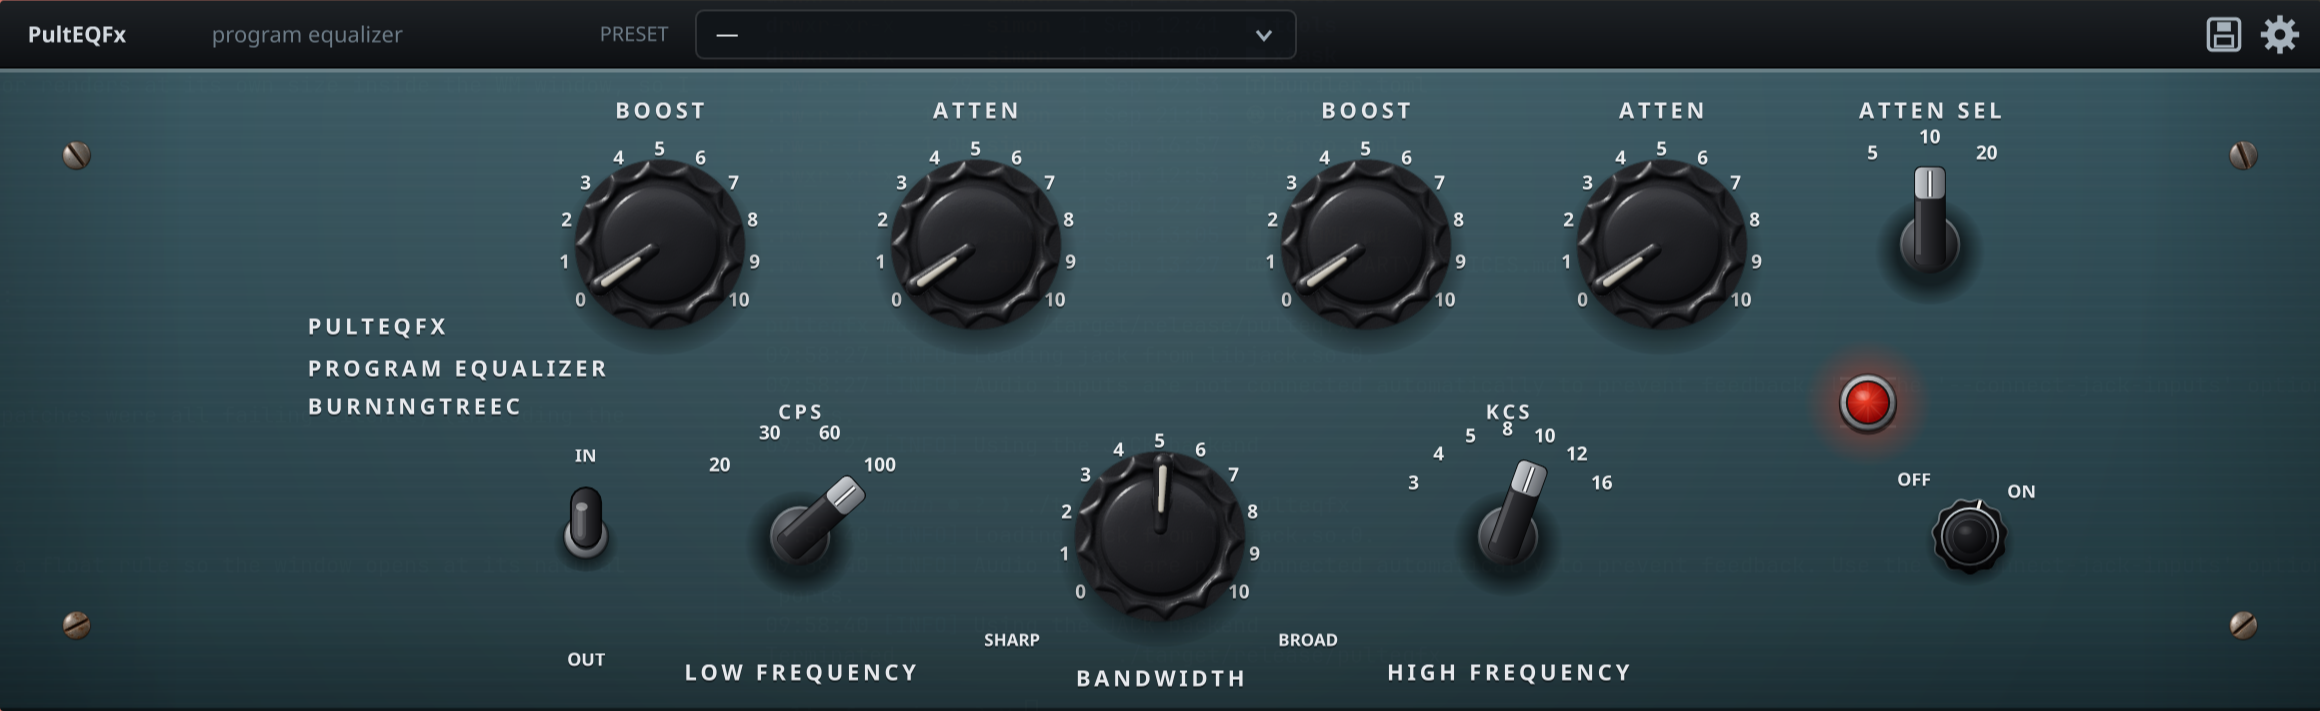
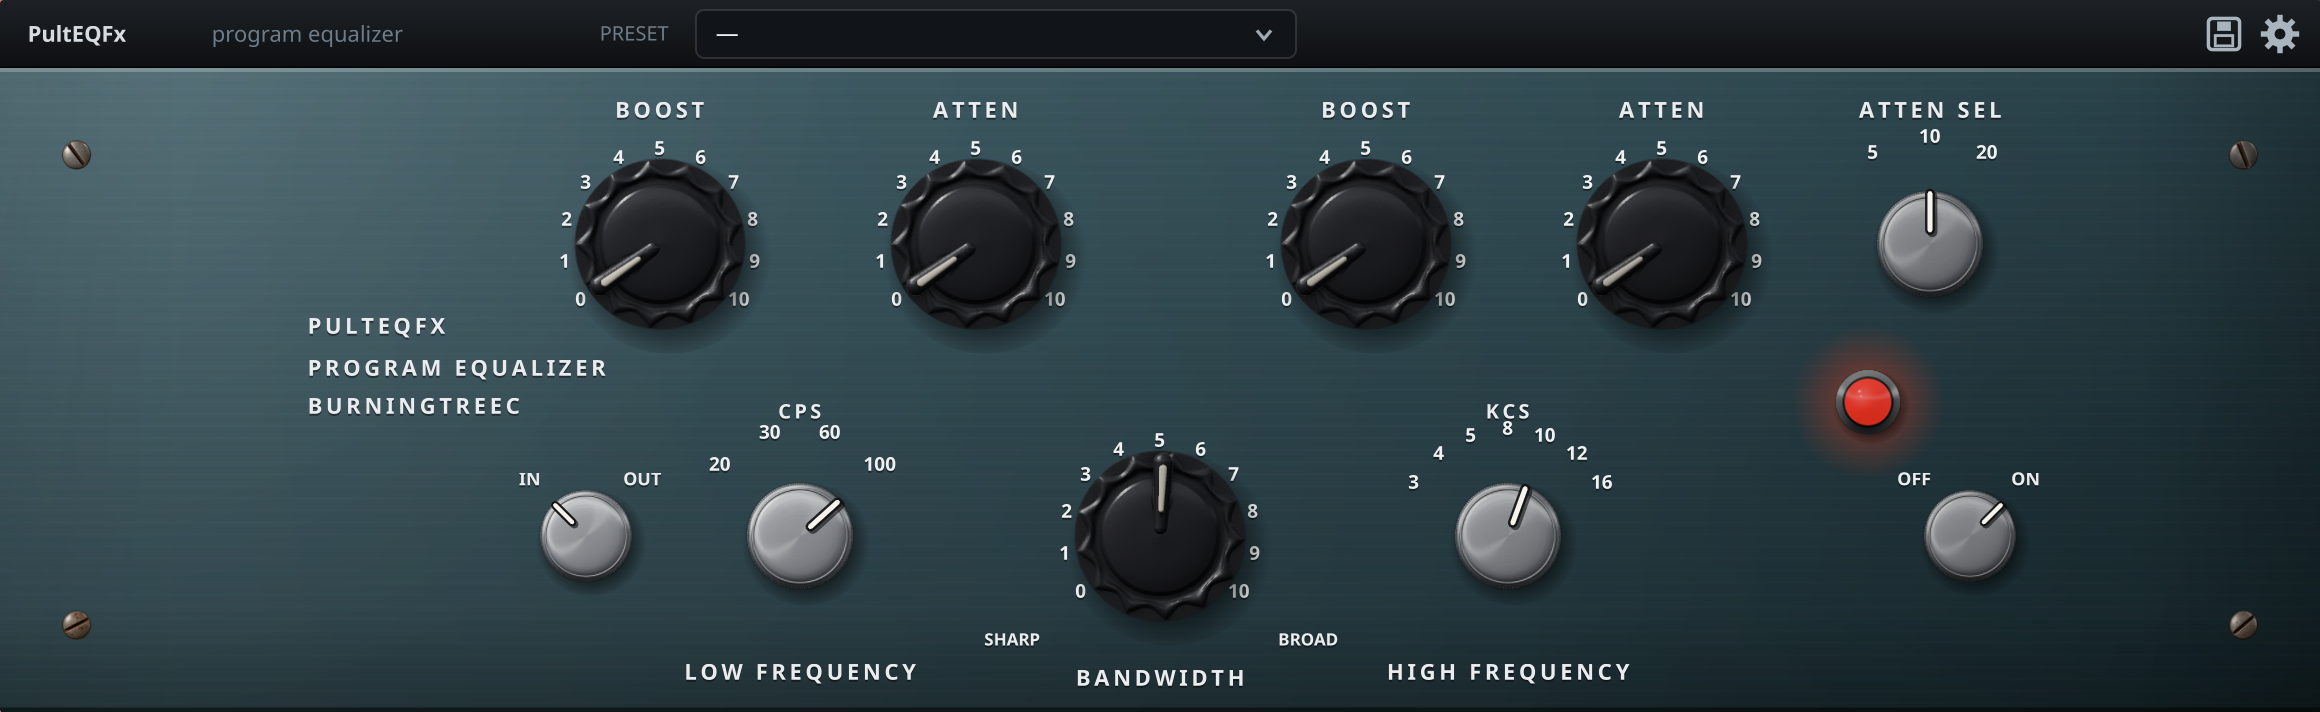
Show the redesigned panel in the README, and stop the terminal showing through it
The screenshot and the panel section both still described the panel before the
metal switch knobs, the rendered lamp and the top left lighting rig went in.

The screenshot had a second fault worth naming. shot.sh tried to defeat the
compositor's window opacity with two `hyprctl setprop ... alpha` calls, each
ending in `|| true`. This Hyprland answers "unknown request" to every setprop
property name, so both had been failing silently and the shipped doc/panel.png
has a terminal legible through the faceplate -- my own conversation, readable
across the enamel between the knobs.

The window carries Omarchy's `default-opacity` tag, which puts it at 0.985.
`hyprctl keyword` is refused here too ("keyword can't work with non-legacy
parsers"), so the rule goes in through the Lua repl the script already uses for
focus and floating. Rules are evaluated top to bottom and for opacity the last
match wins, so one registered at run time beats the tag, and it applies to the
window already mapped. Verified by reading `getprop opacity` back: 0.985 before,
1 after, and the check now aborts the shot rather than shipping a see-through
panel.

Claude-Session: https://claude.ai/code/session_01W5MXJig8Lr2Y96W4ASLa8X

diff --git a/README.md b/README.md
@@ -57,7 +57,7 @@ checking each one:
 
 ## Controls
 
-The front panel is the hardware's. The left hand toggle is the EQ IN/OUT
+The front panel is the hardware's. The left hand knob is the EQ IN/OUT
 switch, which lifts the passive network out of circuit but leaves the amplifier
 in it. The OFF/ON knob at the right takes the whole unit out of circuit, and
 the pilot lamp follows it.
@@ -86,9 +86,9 @@ left to delete to get it back.
 
 The settings button holds:
 
-* **Window size**, from 50 % to 200 %. Nearly all of the panel is drawn rather
-  than pictured, so it stays sharp at any size, and the parts that are pictured
-  are rendered large enough to hold up at the top of the range.
+* **Window size**, from 50 % to 200 %. The faceplate, lettering and scales are
+  drawn rather than pictured, so they stay sharp at any size, and the rendered
+  metal is generated large enough to hold up at the top of the range.
 * **Oversampling**, off through 8x. The equalizer is prewarped and accurate
   without it; oversampling is there for the amplifier's saturation. The plugin
   always reports 74 samples of latency and pads the shorter settings out to
@@ -101,26 +101,70 @@ reset.
 
 ## The panel
 
-The switches, the pointer knobs, the pilot lamp and the faceplate itself are
-drawn with vector paths. The five large knobs and the four mounting screws are
-images: the knobs are generated by `assetgen`, a renderer in this repository
-that builds them from parametric geometry, bakes occlusion into them by casting
-rays against themselves, and shades them under one lighting rig that the whole
-panel shares.
+The faceplate, the lettering, the dial scales and every pointer are drawn with
+vector paths, so they stay sharp at any window size. Everything that is metal
+is a render: the five large knobs, the five knurled switch knobs, the pilot
+lamp and the four mounting screws.
 
-A turning knob cannot be drawn by rotating one picture of it. Rotating the
-picture rotates the lighting baked into it, so the highlight travels round with
-the knob instead of staying where the panel light is. Each knob is instead
-rendered as a filmstrip of 48 frames across its 250 degree sweep, each frame
-lit from the same place, and the widget picks the frame that matches its value.
-The screws are photographed, each already driven to its own angle, and are
-never turned for the same reason.
+The renders come from `assetgen`, a renderer in this repository. It takes
+either parametric geometry or a glTF model, bakes occlusion into it by casting
+rays against itself, and shades it under a lighting rig the whole panel shares.
+The large knobs are built from geometry; the switch knobs come from
+`assets/knob_metal.glb` and the lamp from `assets/led_ring.glb`. glTF states
+base colour, metalness and roughness but has no way to state a finish, so the
+brushing and micro-texture of the aluminium are assetgen's.
+
+Nothing on the panel is ever drawn by rotating a picture of itself. Rotating
+the picture rotates the light baked into it, so the highlight would travel
+round with the part instead of staying where the panel lamp is. The three
+consequences are worth naming, because each one is why a part is made the way
+it is:
+
+* **The large knobs** are filmstrips — 48 frames across the 250 degree sweep,
+  each lit from the same place, and the widget picks the frame matching its
+  value.
+* **The switch knobs** are a single frame. The knurled cylinder has no
+  indicator on it and looks the same at every angle, so the widget draws the
+  pointer on top at whatever angle the switch is thrown to.
+* **The screws** are four separate renders, each already driven to its own
+  angle, because a screw sits where it was tightened.
+
+**The pilot lamp is rendered twice**, once with the lamp behind the jewel
+burning and once with it out, rather than dimming one render in the widget. A
+dark jewel is not a bright one with less light on it: its specular stays
+exactly where it was while the body of it goes out, and that is what tells the
+eye the lamp is off rather than the room.
+
+### One light
+
+The panel is lit from a single lamp, hung a little above the top edge and a
+little in from the left. Four separate pieces of code have to agree about it:
+the faceplate paints its highlight there, assetgen keys every render from up
+and to the left, each control casts a contact shadow down and to the right, and
+each control is tinted by how far it is bolted from the lamp.
+
+That last one is the part a render cannot carry. A render knows the *direction*
+its light came from, but nothing about the panel it ends up on — so without the
+tint a knob at the far end of a nineteen inch panel is as bright as one under
+the lamp, which is the giveaway that a panel is a collage rather than a
+photograph. The falloff is linear in distance rather than inverse square,
+because a faceplate is lit by a broad source at a distance, and an inverse
+square across this width puts the right hand end in the dark.
+
+`tests/lighting.rs` holds the four pieces to it: that shadows fall away from
+the light, that the panel's brightest point is under the lamp and its darkest
+is the opposite corner with no rise in between, that the corner-to-corner
+falloff is visible without being theatrical, and that no control is tinted
+brighter than the render it was made from.
 
 Regenerate the renders with:
 
 ```sh
 ./assetgen/render.sh
 ```
+
+The renderer is deterministic, so re-running it without changing `assetgen`
+reproduces the same files byte for byte.
 
 ## Building
 
